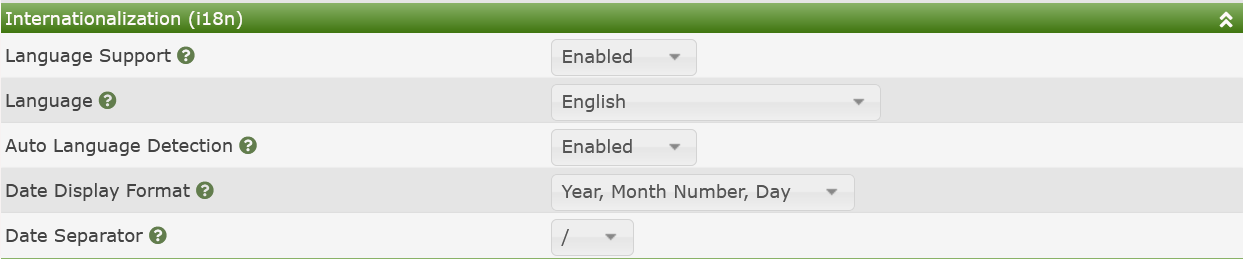
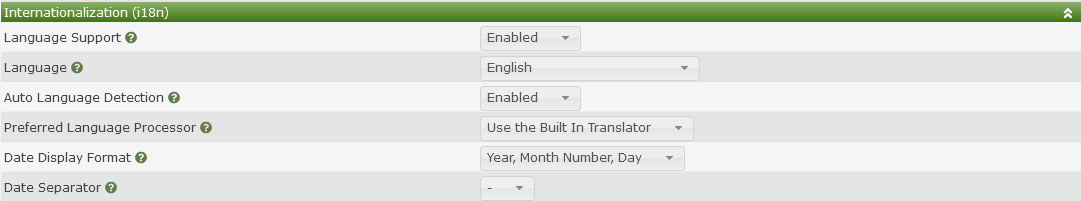
Update i18n settings

diff --git a/Settings-General.md b/Settings-General.md
@@ -90,6 +90,11 @@ Those settings include:
 - **Auto Language Detection** - Whether or not Cacti should read the language
   from the browser and use that language by default.
 
+- **Preferred Language Processor** - Some PHP distributions doe not come with
+  the php-gettext module.  In those cases, the various Linux distributions
+  come with alternate GetText processors.  You can select the one that works
+  best for your environment here.
+
 - **Date Display Format** - The default Date/Time display format.
 
 - **Date Separator** - The default Data/Time separator character.
